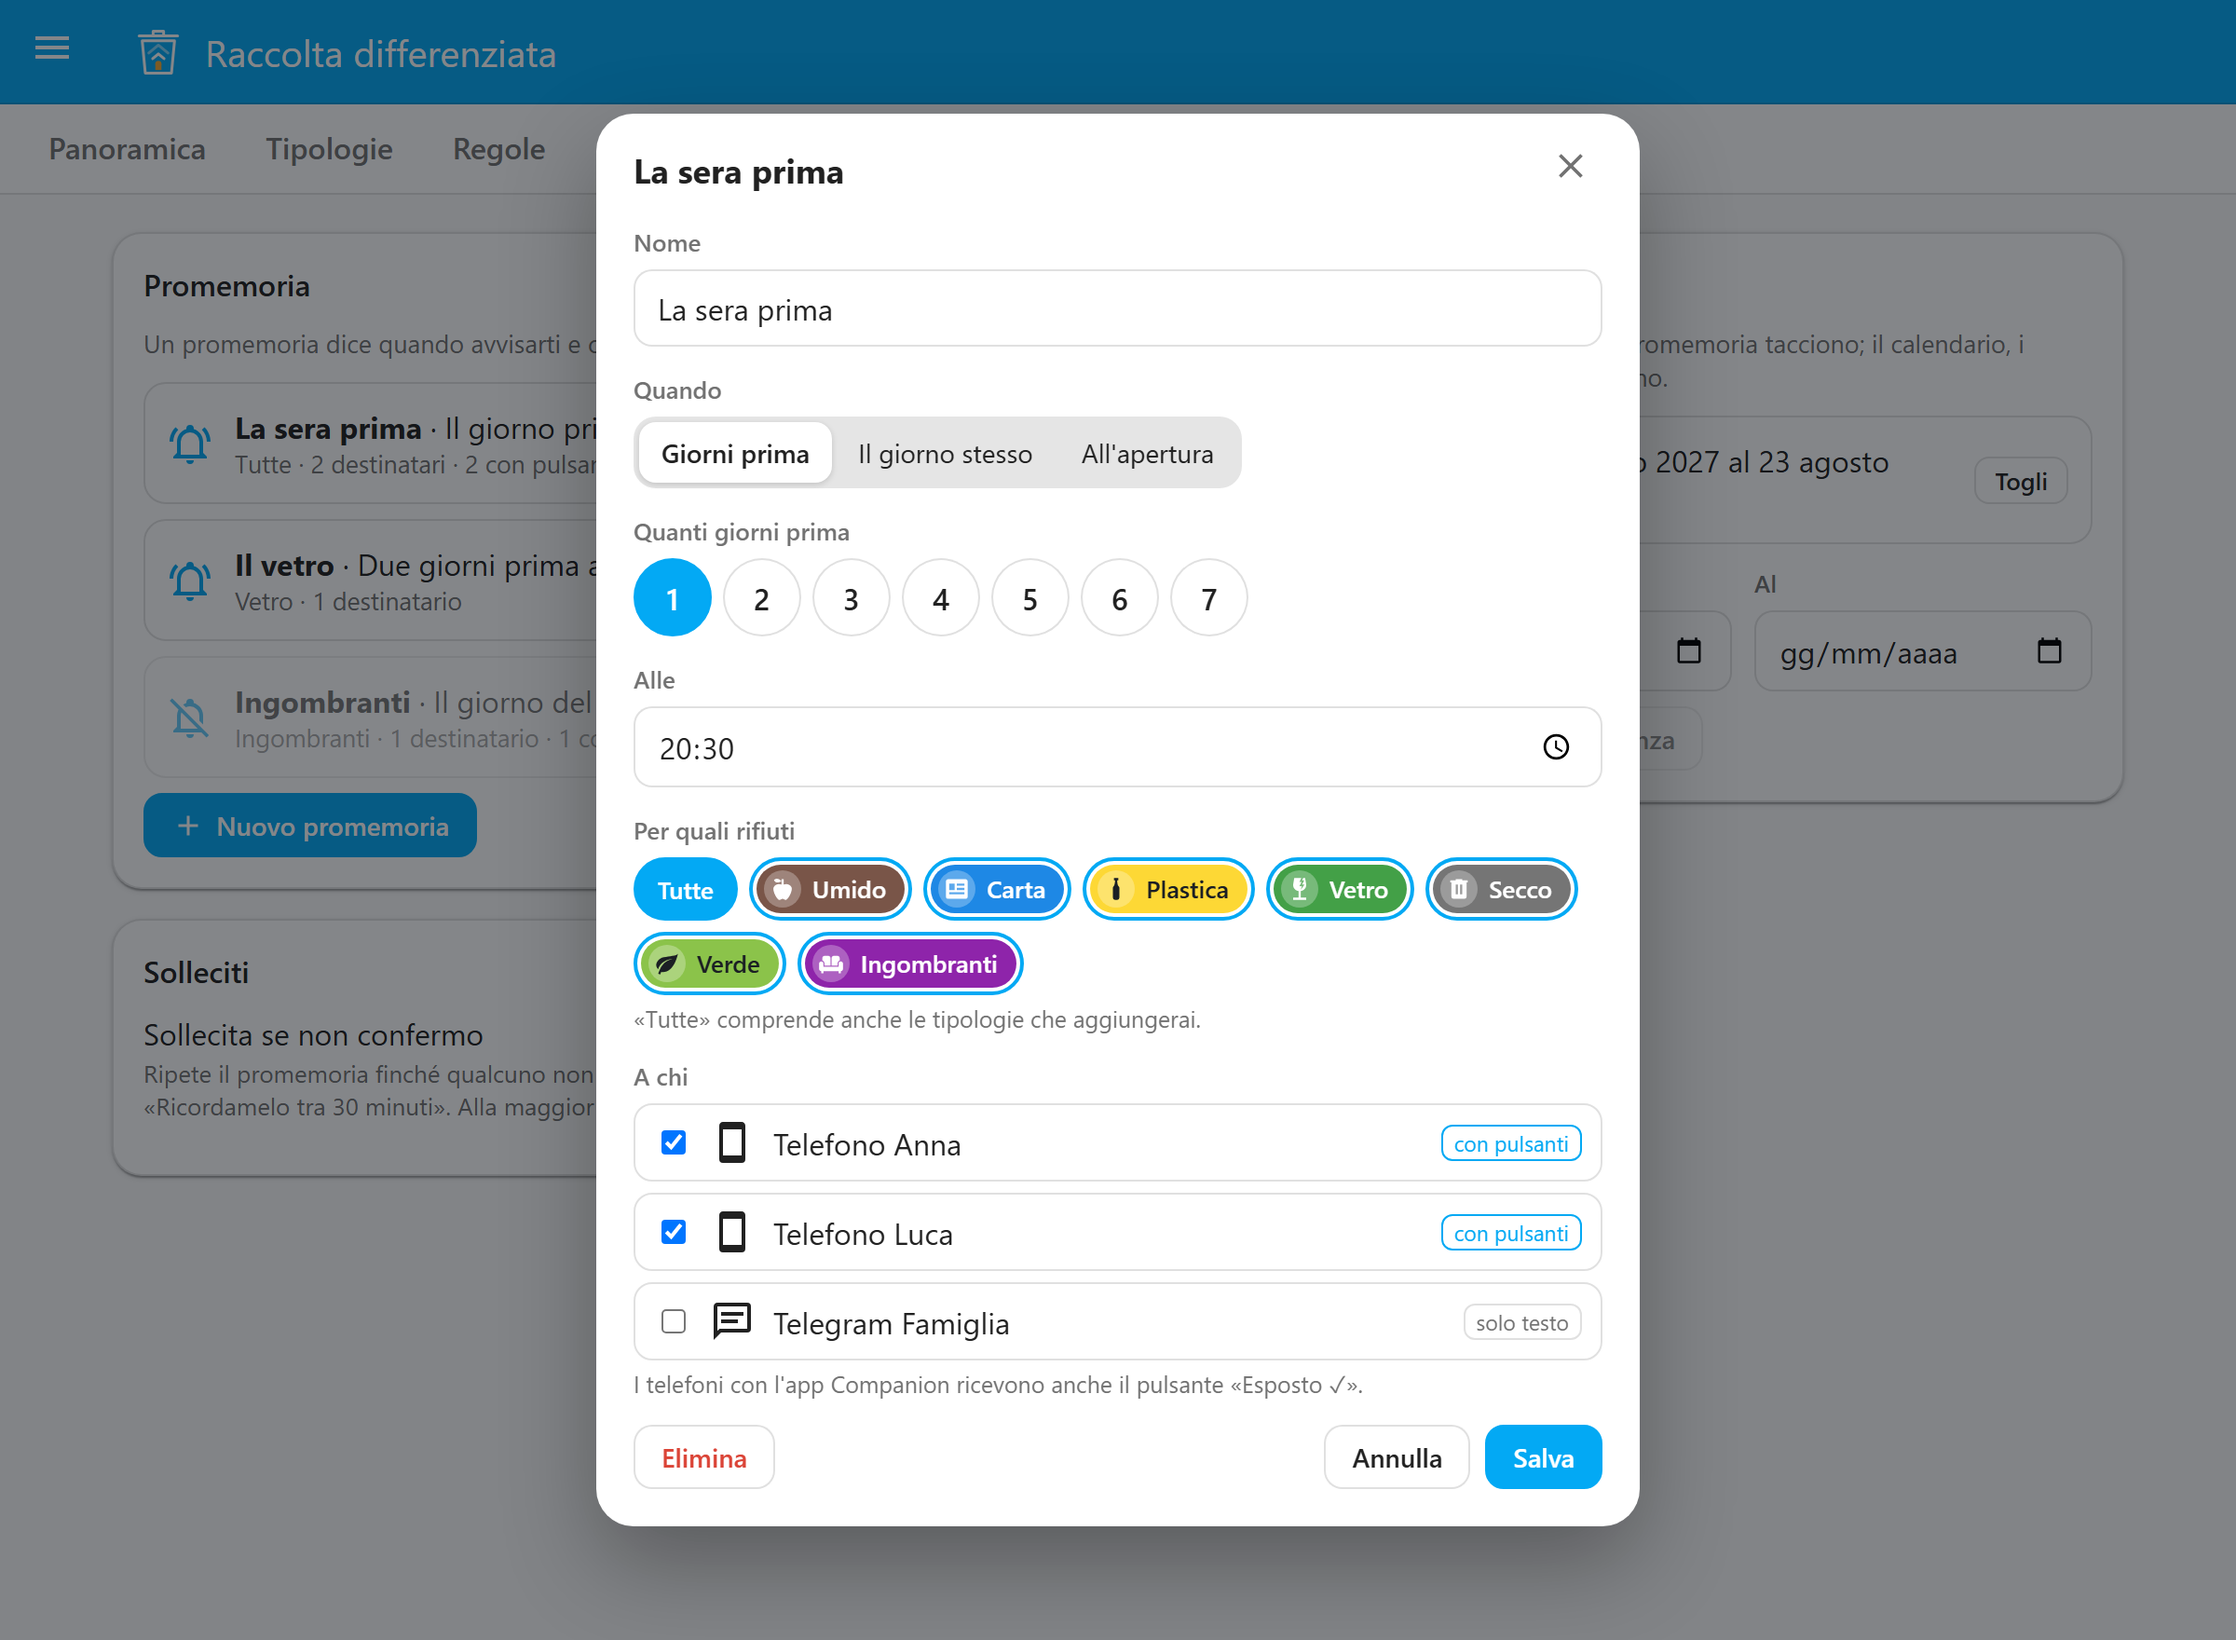
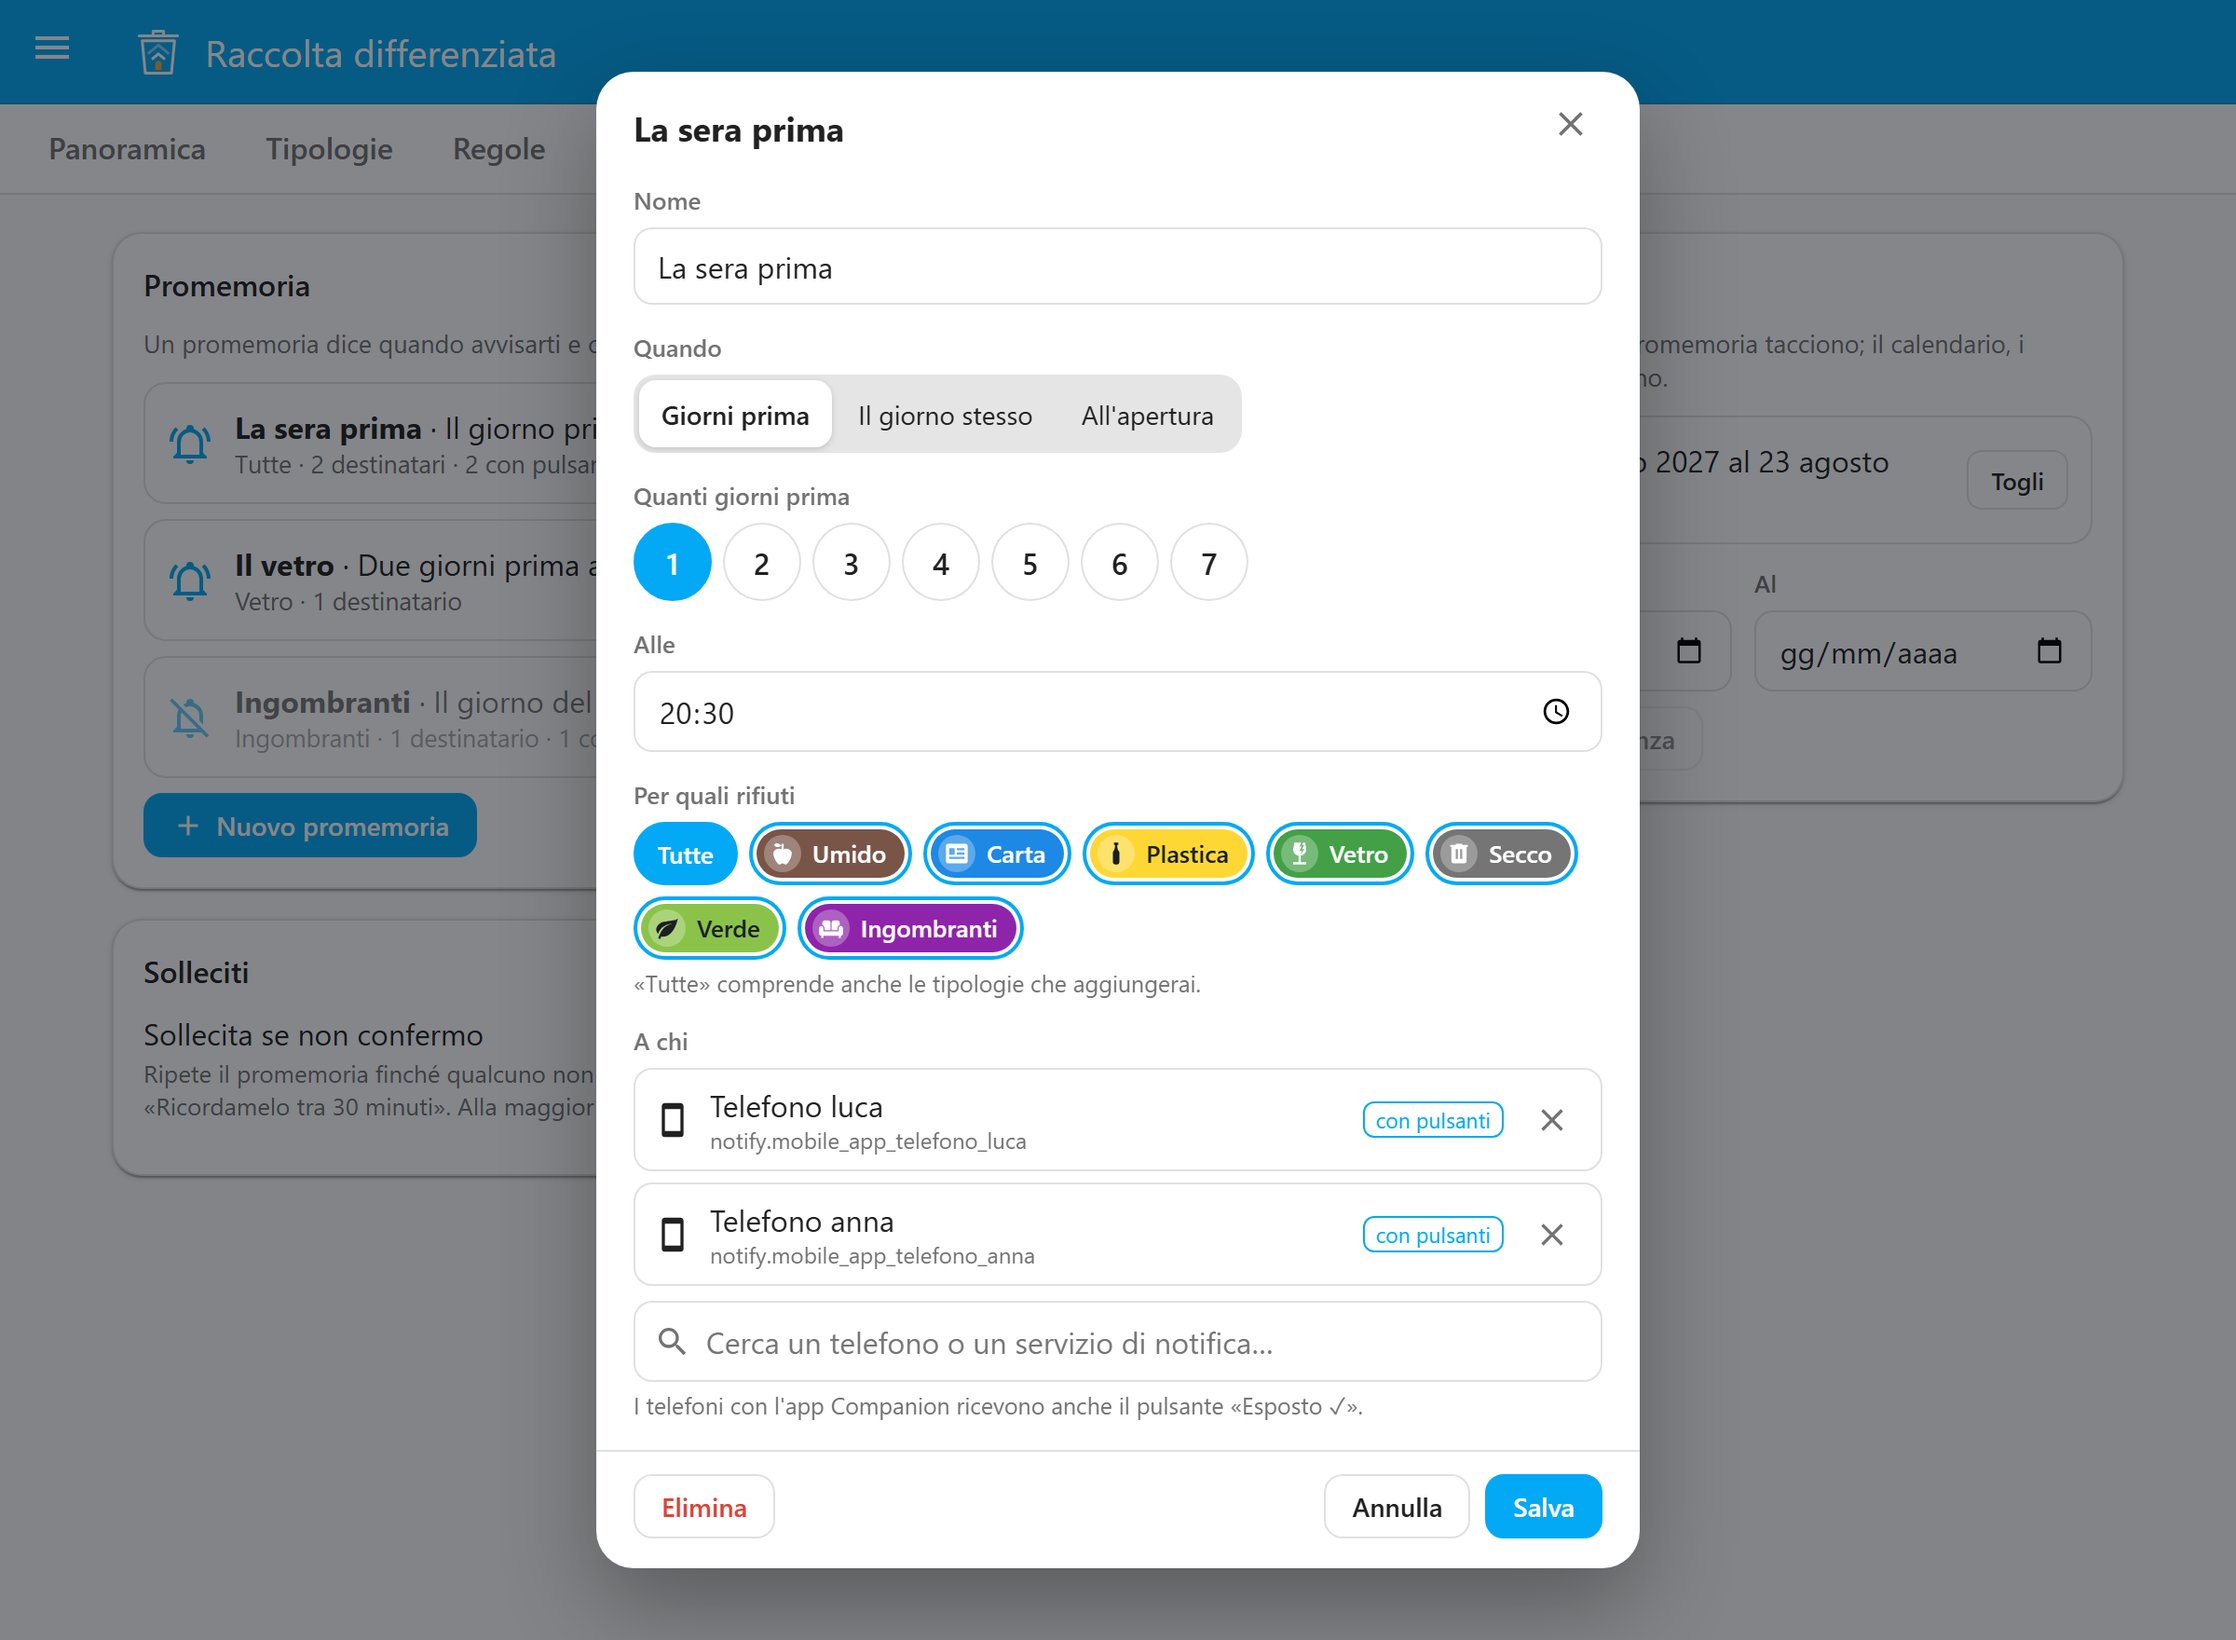
Versione 0.3.0: guida, immagini e decisione 57
Le immagini della documentazione ritraggono l'interfaccia nuova, e la
guida spiega come si cerca un destinatario o un'icona.

diff --git a/CHANGELOG.md b/CHANGELOG.md
@@ -7,6 +7,29 @@ non solo "correzioni", e quello che richiede qualcosa da te viene prima di tutto
 
 ## [Non rilasciato]
 
+## [0.3.0] — 2026-09-26 — più facile da usare
+
+### Cambiato
+- **Destinatari dei promemoria con ricerca.** Invece di una fila di caselle, un campo in
+  cui scrivi e scegli dai suggerimenti, con filtri per telefoni, altri servizi ed entità
+  di notifica; ogni destinatario scelto ha la sua ✕ per toglierlo, e uno che non esiste
+  più in Home Assistant resta visibile e segnalato.
+- **Icona delle tipologie con ricerca** in un catalogo di icone per i rifiuti, cercabili
+  in italiano (*pannolini*, *divano*, *pile*…), con l'anteprima.
+- **Salva e Annulla sempre visibili** in fondo alle finestre di modifica; sul telefono la
+  finestra sale dal basso e usa tutta la larghezza.
+- **Righe da toccare**: regole, eccezioni e promemoria si aprono toccando la riga, senza
+  il pulsante *Modifica* che sul telefono andava a capo.
+- **L'editor di una regola la scrive in una frase** mentre la compili; *Ogni quante
+  settimane* e i giorni della settimana stanno su una riga anche sul telefono.
+- **Panoramica sul telefono:** le cose da controllare vengono prima dei ritiri.
+- **Impostazioni sul telefono:** il santo patrono non è più schiacciato.
+- **Card *Oggi e domani*:** dice in che giorno si espone ("da mettere fuori domani dalle
+  20:00"). **Card *Mese*:** la legenda dei colori e i giorni passati attenuati, come nella
+  settimana.
+- Pulsanti piccoli più facili da toccare, focus visibile con la tastiera, scheda attiva
+  sempre visibile.
+
 ## [0.2.0] — 2026-09-26 — pannolini e revisione completa
 
 ### Aggiunto

diff --git a/docs/GUIDA.md b/docs/GUIDA.md
@@ -55,8 +55,8 @@ collegamento alla configurazione.
 ## Tipologie
 
 Una tipologia è un tipo di rifiuto: nome, colore, icona e una nota su cosa ci va, che le
-card mostrano. L'icona è un'icona di Material Design (per esempio `mdi:food-apple`,
-`mdi:baby-carriage` per i pannolini, `mdi:sofa` per gli ingombranti).
+card mostrano. Per l'icona scrivi cosa cerchi (*umido*, *pannolini*, *divano*…) e scegli
+dall'elenco, oppure scrivi direttamente un'icona di Material Design come `mdi:recycle`.
 
 <p align="center"><img src="screenshots/pannello-tipologie.png" alt="Le tipologie come riquadri colorati, ciascuno con la nota e la data del prossimo ritiro" width="820"></p>
 
@@ -128,6 +128,10 @@ Nella pagina *Promemoria* crei uno o più avvisi: quando (N giorni prima a un'or
 stesso, oppure quando si possono mettere fuori i sacchi), per quali rifiuti e a chi.
 
 <p align="center"><img src="screenshots/pannello-promemoria.png" alt="L'editor di un promemoria: il giorno prima alle 20:30, per tutte le tipologie, a due telefoni con pulsanti" width="820"></p>
+
+Nel campo *A chi* scrivi per cercare (un nome o un pezzo di `notify.…`), scegli dai
+suggerimenti, e togli un destinatario con la ✕ accanto. I filtri sopra i suggerimenti
+separano i telefoni con l'app Companion dagli altri servizi e dalle entità di notifica.
 
 Più rifiuti nello stesso giorno arrivano in un messaggio solo: *Stasera fuori: Umido e
 Plastica*. I telefoni con l'app Companion ricevono anche il pulsante **Esposto ✓**; gli

diff --git a/docs/SPEC.md b/docs/SPEC.md
@@ -978,6 +978,22 @@ Revisione, 2026-09-26.
       senza quel giorno;
     - i salvataggi della configurazione avvengono uno alla volta, così il controllo della
       revisione non si può eludere con due schede aperte (§9.4).
+57. Revisione di usabilità (0.3.0). Regole del frontend:
+    - ovunque si sceglie qualcosa da un elenco lungo (destinatari, icone) c'è un
+      selettore con ricerca per nome e identificativo, suggerimenti navigabili da
+      tastiera e, quando le voci sono di più tipi, filtri per gruppo; le scelte multiple
+      stanno in un elenco con un pulsante per togliere ciascuna, e un destinatario che
+      non esiste più resta visibile, segnalato;
+    - le icone di una tipologia si cercano per nome in italiano in un catalogo di icone
+      adatte ai rifiuti, e se ne può sempre scrivere un'altra `mdi:`;
+    - nelle finestre di modifica i pulsanti Salva e Annulla sono fissi in basso; su uno
+      schermo stretto la finestra sale dal basso e occupa la larghezza;
+    - le righe degli elenchi (regole, eccezioni, promemoria) si aprono toccandole;
+    - l'editor di una regola la riassume in una frase mentre si compila;
+    - su uno schermo stretto le cose da controllare stanno in cima alla Panoramica;
+    - bersagli di tocco di almeno 32 px e focus visibile da tastiera;
+    - le card dicono in che giorno si espone ("domani dalle 20:00"), e il mese ha la
+      legenda dei colori come la settimana.
 
 ---
 

diff --git a/CLAUDE.md b/CLAUDE.md
@@ -56,7 +56,10 @@ ignorate, ultimo istante di attività.
 - `banco/` è un banco di prova con un finto `hass`: pannello (`banco/pannello.html`) e
   card (`banco/card.html`) si aprono in un browser servendo la radice del repository
   (`python -m http.server 8766`). Parametri: `oggi`, `ora` (orologio fermo), `tema=scuro`,
-  `pagina`, `passi` (pulsanti da cliccare, per testo), `card`, `larghezza`.
+  `pagina`, `passi` (pulsanti da cliccare, per l'inizio del loro testo, separati da `|`),
+  `card`, `larghezza`.
+- Per guardare una pagina a larghezza telefono, Chrome headless non scende sotto circa
+  500 px di finestra: sotto tutti i punti di rottura del layout (560, 600, 820 px).
 - Il finto `ha-icon` disegna nello shadow DOM: figli nel light DOM sposterebbero gli
   indici dei nodi di Lit e i valori finirebbero nei posti sbagliati.
 - `banco/icone.json` si rigenera con `scripts/estrai_icone.py`; gli screenshot di
